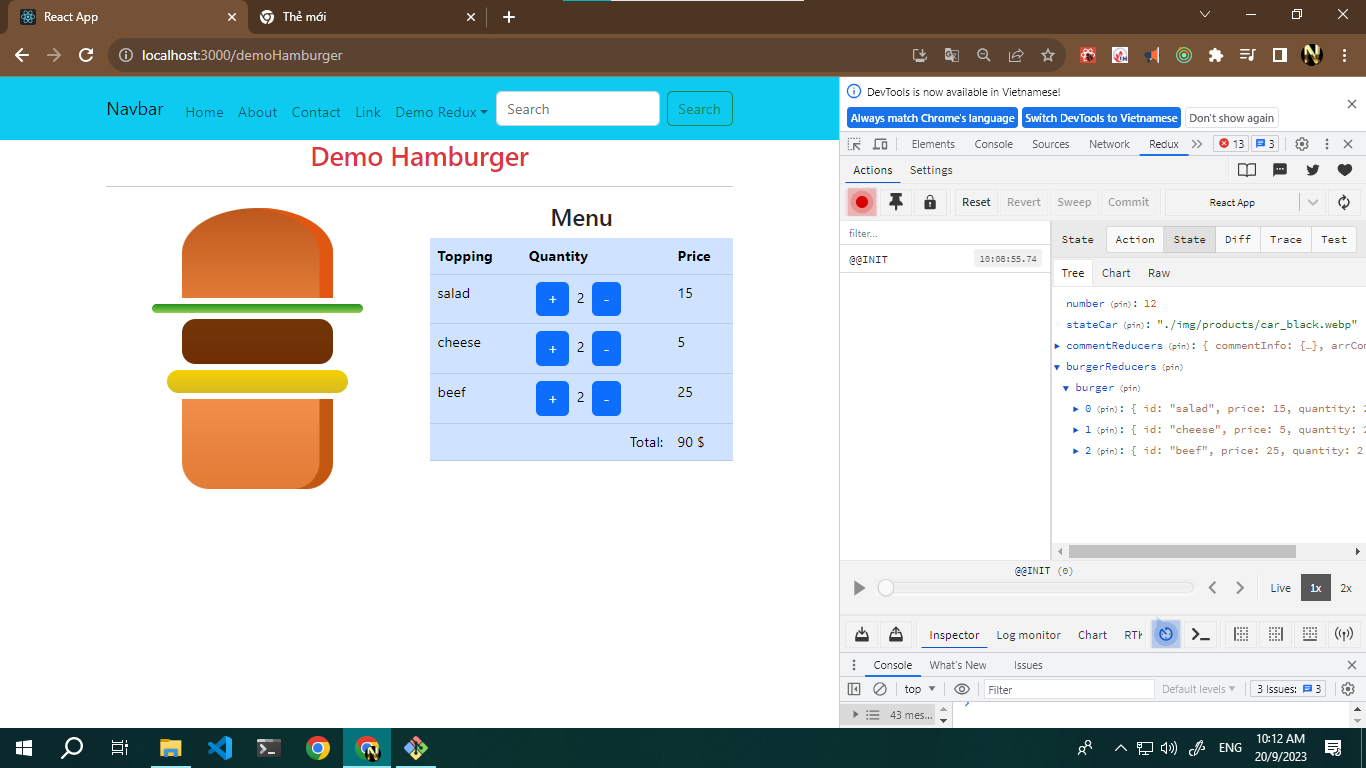
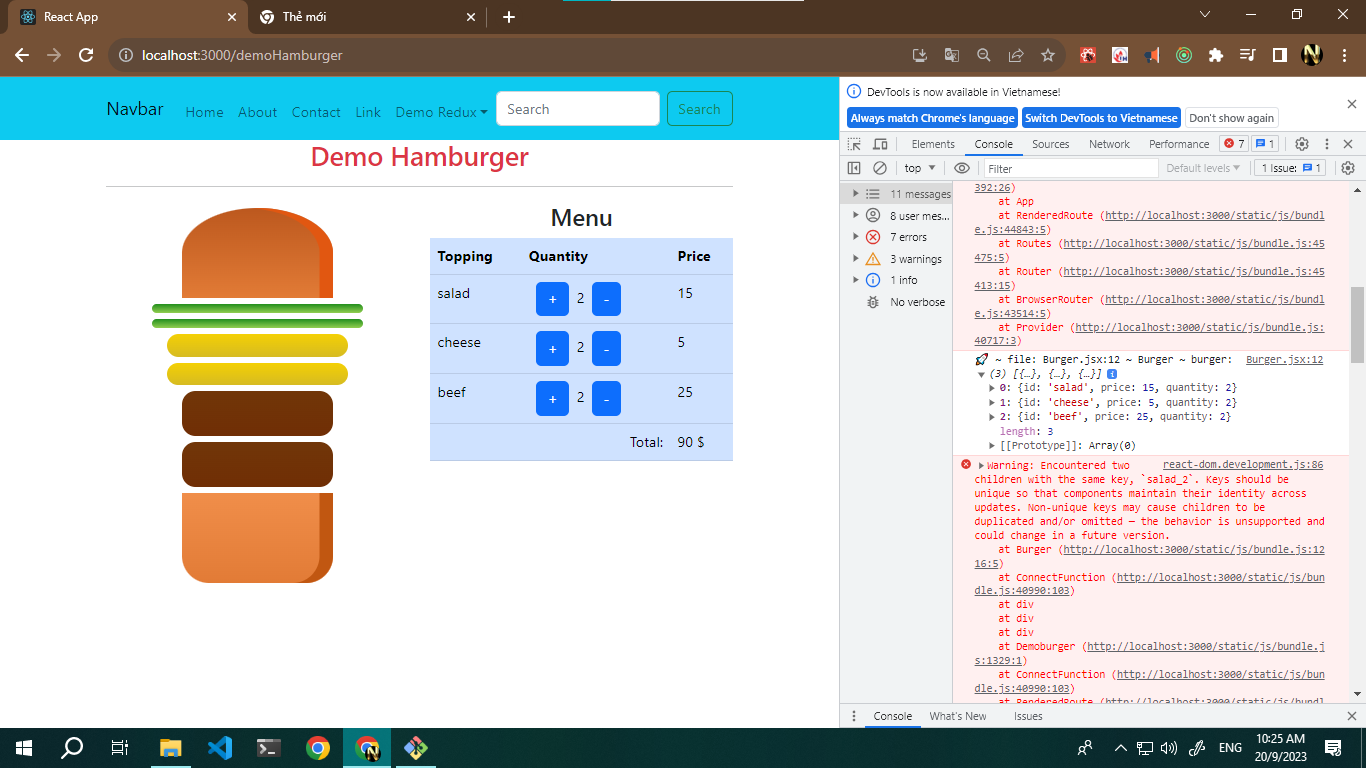
load data redux -> component burger

Changed region(s): [[0.6149, 0.1875, 1.0, 0.9688], [0.0922, 0.4062, 0.2767, 0.7812], [0.6149, 0.75, 0.6457, 0.7812]]

diff --git a/demo-buoi8-redux/src/Page/DemoRedux/Demoburger/Burger.jsx b/demo-buoi8-redux/src/Page/DemoRedux/Demoburger/Burger.jsx
@@ -7,12 +7,30 @@ class Burger extends Component {
     prop: PropTypes,
   };
 
+  renderTopping = () => {
+    let {burger} = this.props;
+    console.log("🚀 ~ file: Burger.jsx:12 ~ Burger ~ burger:", burger)
+    const arrDivJsx = []
+    burger.forEach(item => {
+        let {quantity} = item;
+        for (let index = 0; index < quantity; index++) {
+            const divTopping = <div className={item.id} key={`${item.id}_${quantity}`}></div>
+            arrDivJsx.push(divTopping)
+            
+        }
+    });
+
+    return arrDivJsx;
+  }
+
   render() {
+    
     return <>
         <div className="breadTop"></div>
-        <div className="salad"></div>
+        {/* <div className="salad"></div>
         <div className="beef"></div>
-        <div className="cheese"></div>
+        <div className="cheese"></div> */}
+        {this.renderTopping()}
         <div className="breadBottom"></div>
     </>;
   }
